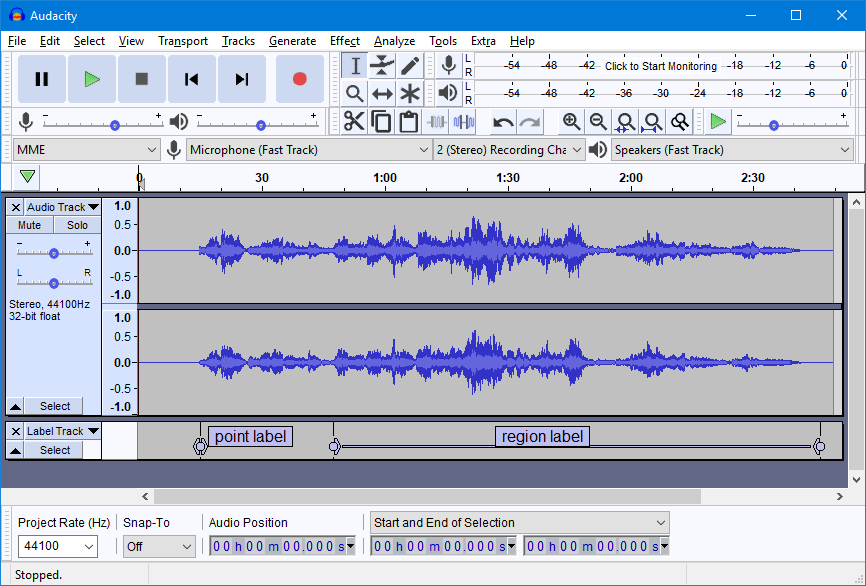
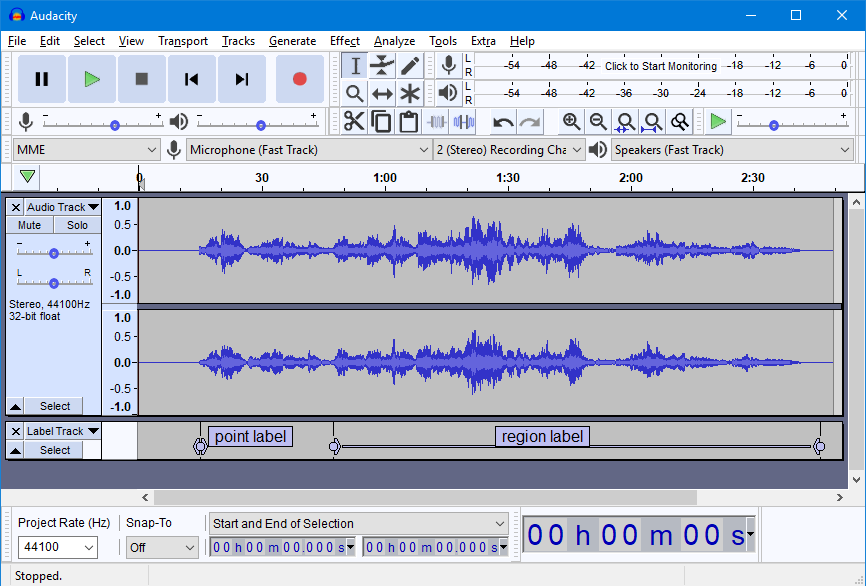
Update Audacity image map for time toolbar

Changed region(s): [[0.0, 0.8294, 0.9977, 1.0]]

diff --git a/wit-html/js/boxes.js b/wit-html/js/boxes.js
@@ -243,14 +243,22 @@ Audacity.Boxes = [
   { "depth": 2,"box":[ 138, 488, 848, 504], "label":"Horizontal Scrollbar" },
   { "depth": 2,"box":[ 849, 208, 865, 487], "label":"Vertical Scrollbar" },
 //  { "depth": 1,"box":[   2, 505, 865, 561], "label":"ToolDock" },
-  { "depth": 1,"box":[   3, 506, 679, 560], "label":"Selection Toolbar" },
+  { "depth": 1,"box":[   3, 506, 510, 560], "label":"Selection Toolbar" },
   { "depth": 2,"box":[   3, 506,  12, 560], "label":"Grabber" },
   { "depth": 2,"box":[  13, 508, 113, 557], "label":"Project Rate" },
   { "depth": 2,"box":[ 121, 508, 199, 557], "label":"Snap-To" },
-  { "depth": 2,"box":[ 207, 508, 362, 558], "label":"Audio Position" },
-  { "depth": 2,"box":[ 370, 537, 523, 558], "label":"Start" },
-  { "depth": 2,"box":[ 523, 537, 676, 558], "label":"End" },
-  { "depth": 2,"box":[ 368, 511, 673, 533], "label":"Selection Type Chooser" },
+//  { "depth": 2,"box":[ 207, 508, 362, 558], "label":"Audio Position" },
+  { "depth": 2,"box":[ 207, 537, 360, 558], "label":"Start" },
+  { "depth": 2,"box":[ 360, 537, 510, 558], "label":"End" },
+  { "depth": 2,"box":[ 207, 511, 510, 533], "label":"Selection Type Chooser" },
+
+  { "depth": 1,"box":[ 513, 506, 766, 560], "label":"Time Toolbar" },
+  { "depth": 2,"box":[ 513, 506, 522, 560], "label":"Grabber" },
+  { "depth": 2,"box":[ 523, 508, 756, 558], "label":"Audio Position" },
+  { "depth": 2,"box":[ 757, 506, 766, 560], "label":"Resizer" },
+
+
+
   { "depth": 1,"box":[   2, 562, 865, 584], "label":"Status Bar" },
   { "depth": 2,"box":[  10, 562, 150, 584], "label":"Status" },
   { "depth": 2,"box":[ 842, 562, 865, 584], "label":"Grab Handle"},
